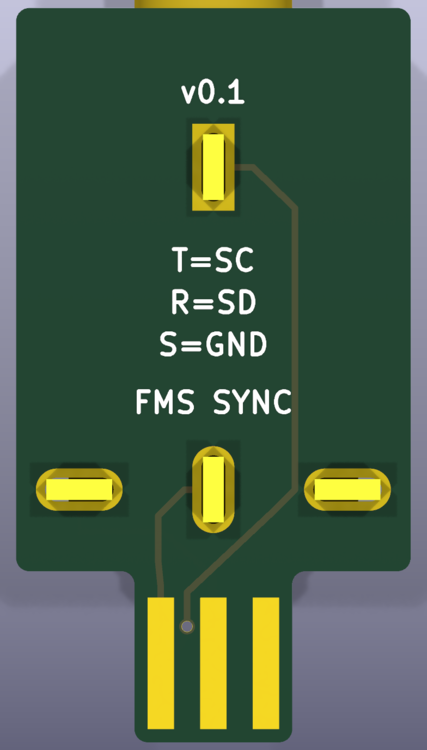
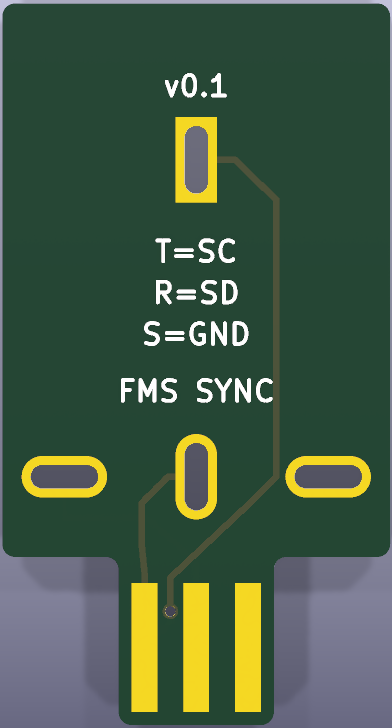
Create Makefile and update previews

Changed region(s): [[0.0, 0.0, 1.0, 0.9973], [0.3061, 0.5137, 0.4592, 0.5742]]

diff --git a/Readme.md b/Readme.md
@@ -1,16 +1,15 @@
 # FMS Link
 
-A small PCB that plugs into a Game Boy link port and breaks the sync lines out to a
+A small PCB that plugs into a Game Boy link cable and breaks the sync lines out to a
 3.5mm TRS jack, for clocking [FMS](https://lo-bit.club/fms/) and
 [nanoloop](https://nanoloop.com/) against other gear — Pocket Operators, Volcas,
 eurorack, anything that takes an analog clock.
 
-The jack is mounted **in line with the link port**, barrel pointing away from the
-console, so the cable exits straight out the back of the adapter rather than off to
-one side.
-
 ![Board, front](images/board-front.png)
 ![Board, back](images/board-back.png)
+
+The previews are rendered bare, without the jack's 3D model, so the copper and
+silkscreen stay visible.
 
 ## Wiring
 
@@ -33,60 +32,23 @@ released when a plug is inserted. It is left unconnected.
 | --- | ------------------ | ------------------------------------------- |
 | J1  | **WQP-WQP729JH-B** | 3.5mm right-angle switched **stereo** jack  |
 
+
 > **Order the blue `-B` part, not the red `-R`.** Per the
 > [manufacturer datasheet](https://www.thonk.co.uk/wp-content/uploads/2022/10/WQP-WQP729JH.pdf),
 > the `-R` is mono and has no ring contact, so it cannot carry `SD`.
 > Thonk sells both on their [729JH page](https://www.thonk.co.uk/shop/729jh-jacks/).
->
-> The Thonkiconn (`PJ398SM` / `WQP518MA` / `PJ301M-12`) is **not** a substitute: it is a
-> vertical-mount mono jack with a different footprint.
 
 The board is 15.0 × 27.9 mm including the link-port tongue, two layers, no other parts.
 The jack's threaded barrel protrudes 4.3 mm past the top edge.
 
-## Building
-
-Made with KiCad 10. Open `fms-link.kicad_pro`.
-
-Gerbers and the Excellon drill file are checked in under `gerbers/`, plotted from the
-current board. The jack's four pins are routed slots, so make sure your fab accepts the
-`G85` slot commands in the drill file (OSH Park and JLCPCB both do).
-
 ### Ordering from OSH Park
 
-Zip the gerbers flat (no enclosing folder) and upload at
-[oshpark.com](https://oshpark.com/):
-
-```sh
-cd gerbers && zip ../fms-link-gerbers.zip \
-  fms-link-F_Cu.gtl fms-link-B_Cu.gbl \
-  fms-link-F_Mask.gts fms-link-B_Mask.gbs \
-  fms-link-F_Silkscreen.gto fms-link-B_Silkscreen.gbo \
-  fms-link-Edge_Cuts.gm1 fms-link.drl
-```
-
-To replot from the board first:
-
-```sh
-kicad-cli pcb export gerbers --output gerbers/ \
-  --layers "F.Cu,B.Cu,F.SilkS,B.SilkS,F.Mask,B.Mask,Edge.Cuts" fms-link.kicad_pcb
-kicad-cli pcb export drill --output gerbers/ --format excellon \
-  --drill-origin absolute --excellon-units mm fms-link.kicad_pcb
-```
+`make zip` writes `fms-link-gerbers.zip` — flat, no enclosing folder, with the `.gbrjob`
+manifest left out. Upload it at [oshpark.com](https://oshpark.com/).
 
 The board is 0.649 sq in, so OSH Park's 2-layer service runs about **$3.25 for three
 copies** plus shipping. Check their rendered preview before checkout — in particular that
 the four jack slots come through as slots rather than round holes.
-
-## 3D model
-
-`3dmodels/WQP729JH.wrl` is an approximate model of the jack, generated from
-`3dmodels/WQP729JH.scad` against the manufacturer drawing, so the part shows up in
-KiCad's 3D viewer.
-
-> KiCad reads VRML units as 0.1 inch, so the footprint's `model` block carries
-> `(scale 0.3937007874)` despite the mesh being authored in millimetres. If this is ever
-> replaced with a STEP file, **reset that scale to 1**.
 
 ## Credits
 
@@ -100,6 +62,3 @@ on building a link cable breakout, and he wrote up his own build
 
 Everything else here — the TRS jack footprint and 3D model, the schematic, the board
 outline and routing — is new.
-
-The original project carries no license file, so it grants no explicit reuse terms; this
-repository likewise asserts none over that borrowed geometry.
